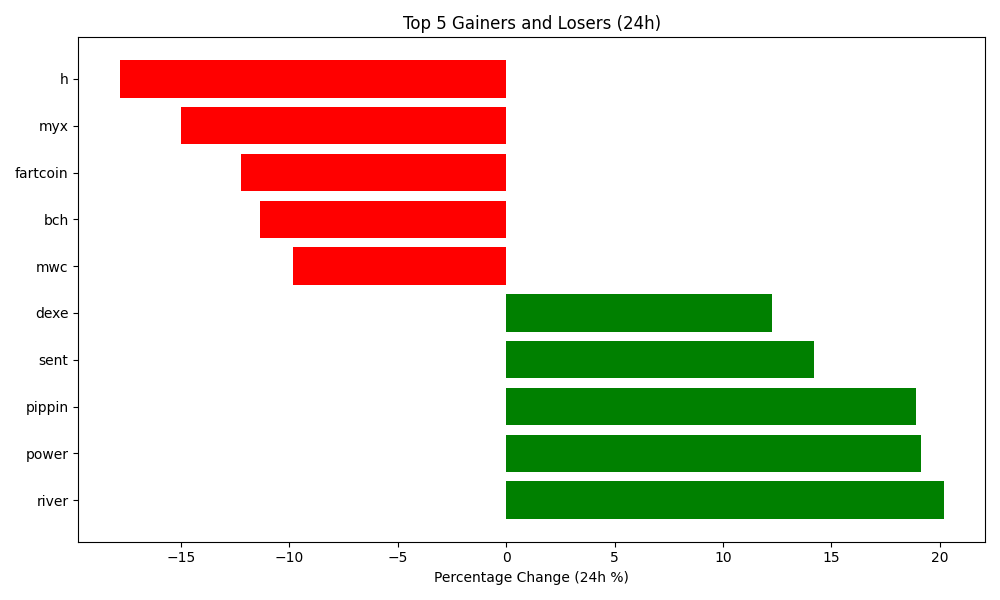
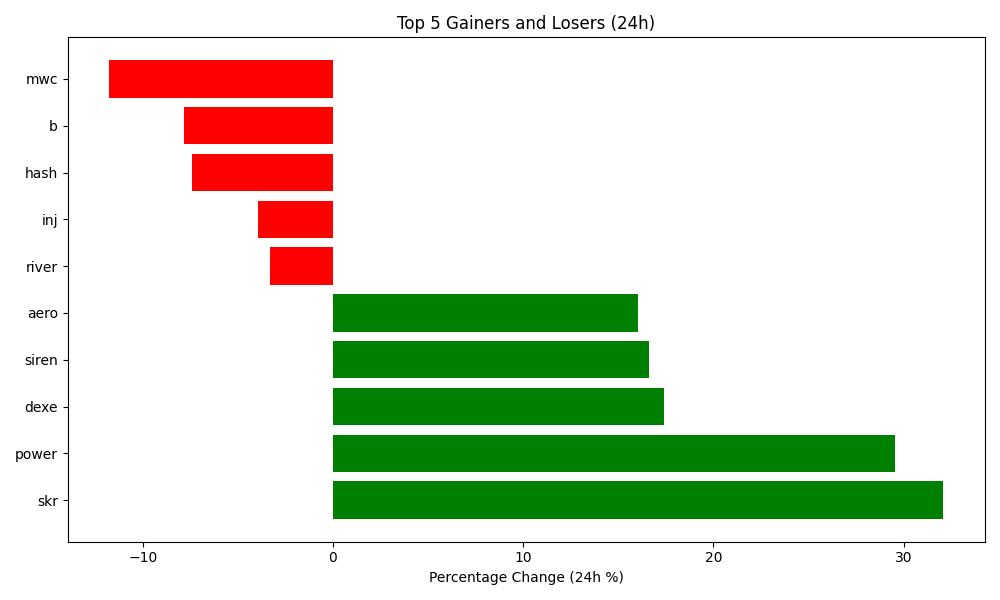
Auto-update crypto data and plot

diff --git a/README.md b/README.md
@@ -4,7 +4,7 @@ Author: Hitesh Agrawal
 This repository automatically tracks the top 5 gaining, top 5 losing, and top 5 highest volume cryptocurrencies in the last 24 hours using the CoinGecko API, Python, Matplotlib, and GitHub Actions updates the below content everyday at midnight.
 
 <!-- START_DYNAMIC_CONTENT -->
-Last updated: 2026-02-24 01:24 UTC
+Last updated: 2026-02-25 01:27 UTC
 
 ![Crypto Movers Plot](crypto_movers_plot.png)
 
@@ -12,33 +12,33 @@ Last updated: 2026-02-24 01:24 UTC
 
 | Rank | Coin | Price Change (24h %) | Volume (USD) | Current Price (USD) |
 | :--: | :--: | :------------------: | :----------: | :-----------------: |
-| 1 | river | 20.19% | $18,081,998 | $9.0000 |
-| 2 | power | 19.16% | $28,041,954 | $0.5365 |
-| 3 | pippin | 18.90% | $61,801,737 | $0.7388 |
-| 4 | sent | 14.20% | $82,989,656 | $0.0240 |
-| 5 | dexe | 12.29% | $18,517,601 | $2.9100 |
+| 1 | skr | 32.08% | $169,831,548 | $0.0248 |
+| 2 | power | 29.53% | $57,692,987 | $0.6906 |
+| 3 | dexe | 17.42% | $25,111,139 | $3.4300 |
+| 4 | siren | 16.59% | $23,216,771 | $0.3361 |
+| 5 | aero | 16.06% | $27,226,803 | $0.3425 |
 
 
 **👇 Top 5 Losers (24h)**
 
 | Rank | Coin | Price Change (24h %) | Volume (USD) | Current Price (USD) |
 | :--: | :--: | :------------------: | :----------: | :-----------------: |
-| 1 | h | -17.84% | $49,769,207 | $0.1348 |
-| 2 | myx | -15.00% | $72,905,514 | $0.5779 |
-| 3 | fartcoin | -12.25% | $82,138,582 | $0.1428 |
-| 4 | bch | -11.38% | $506,981,301 | $492.9000 |
-| 5 | mwc | -9.84% | $73,891 | $12.4900 |
+| 1 | mwc | -11.75% | $134,965 | $11.1200 |
+| 2 | b | -7.81% | $3,451,705 | $0.1276 |
+| 3 | hash | -7.40% | $5,300 | $0.0161 |
+| 4 | inj | -3.96% | $67,943,556 | $3.2500 |
+| 5 | river | -3.29% | $20,860,931 | $8.8600 |
 
 
 **💎 Top 5 by Trade Volume (24h)**
 
 | Rank | Coin | Price Change (24h %) | Volume (USD) | Current Price (USD) |
 | :--: | :--: | :------------------: | :----------: | :-----------------: |
-| 1 | usdt | 0.00% | $86,082,688,695 | $0.9998 |
-| 2 | btc | -1.75% | $51,080,313,292 | $64,032.0000 |
-| 3 | eth | -1.92% | $21,502,353,660 | $1,837.3100 |
-| 4 | sol | -2.23% | $5,097,328,613 | $77.2300 |
-| 5 | usdc | -0.01% | $4,735,152,010 | $0.9999 |
+| 1 | usdt | 0.03% | $70,376,954,397 | $1.0000 |
+| 2 | btc | 2.64% | $45,786,849,300 | $66,121.0000 |
+| 3 | eth | 3.68% | $19,683,340,415 | $1,917.7200 |
+| 4 | usdc | 0.01% | $4,187,389,816 | $1.0000 |
+| 5 | sol | 5.74% | $3,494,042,123 | $82.1400 |
 
 
 <!-- END_DYNAMIC_CONTENT -->
